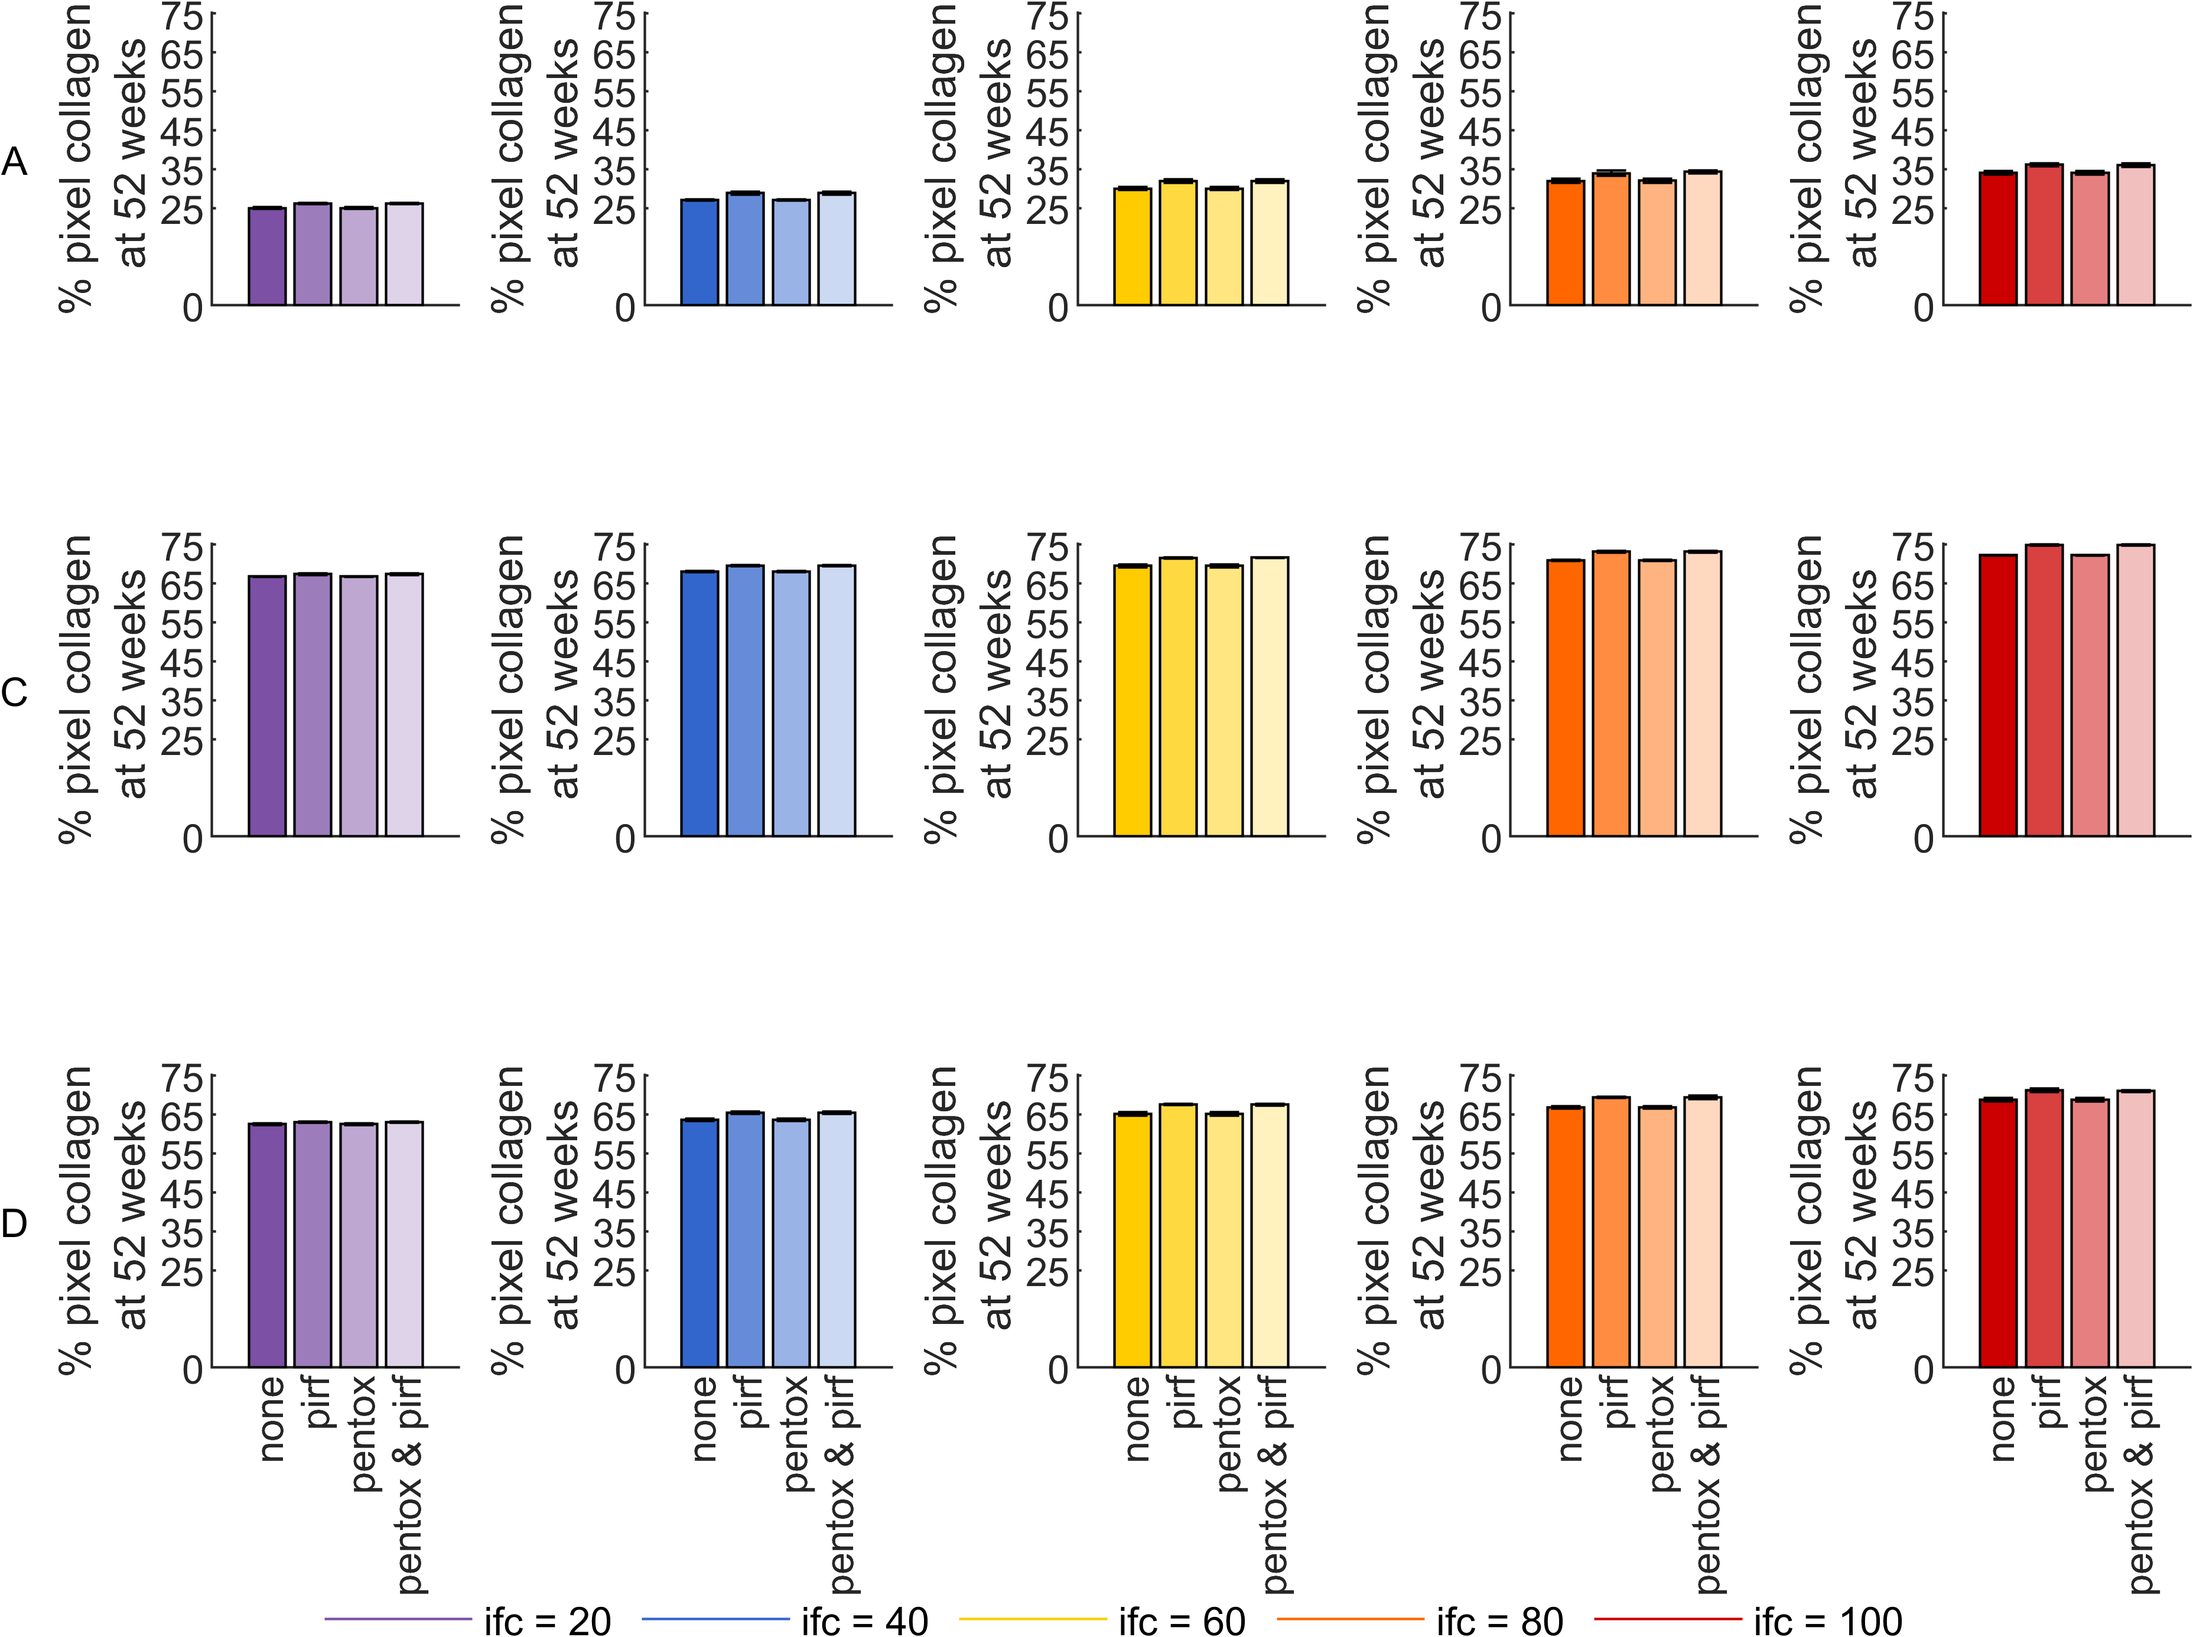
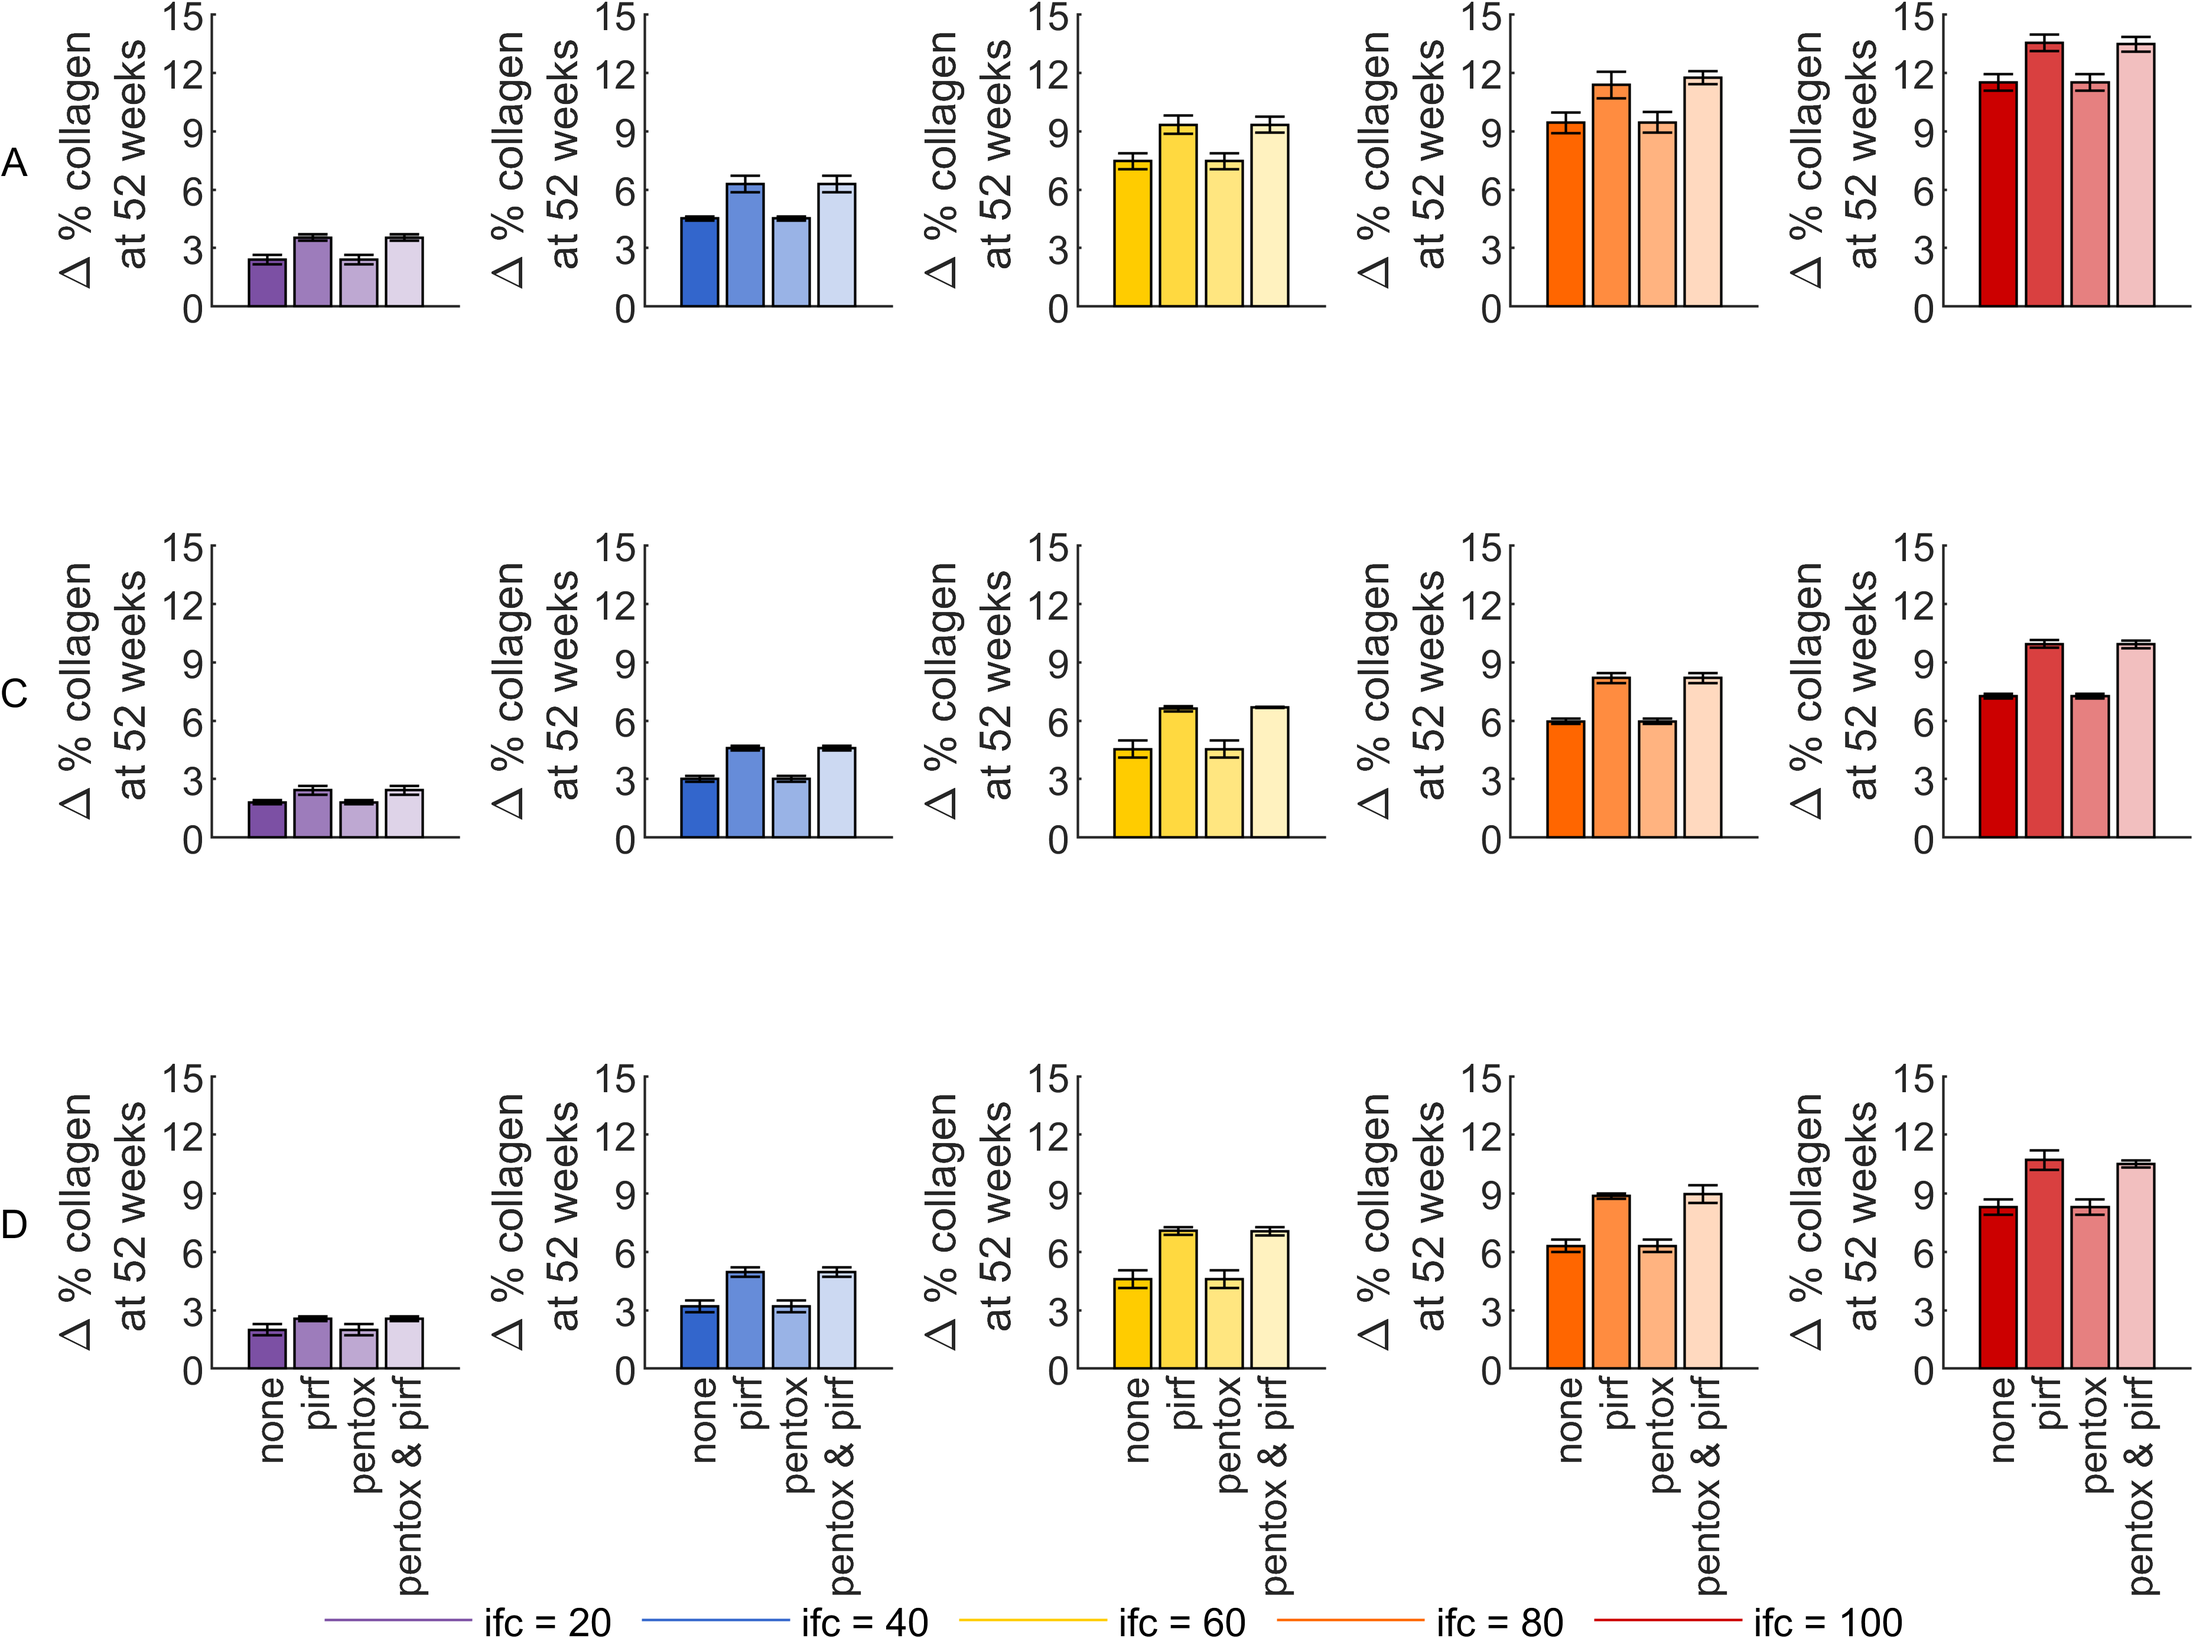
removed pixel names

diff --git a/PlotBehaviorSpace.m b/PlotBehaviorSpace.m
@@ -70,7 +70,7 @@ figColors = [
     0.8 0.0 0.0;        % red
 ];
 
-ReporterLabels = {'total world collagen', '% pixel collagen', 'fibroblasts', 'myofibroblasts', 'max pixel collagen'};
+ReporterLabels = {'total collagen', '% collagen', 'fibroblasts', 'myofibroblasts', 'max collagen'};
 for i = 2:numReporters
     figure(1)
     subplot(length(ResultsPath),numReporters-1,(z-1)*(numReporters-1) + (i-1));
@@ -168,6 +168,7 @@ for rowIndex = 2
             end
             xlim([xmin xmax])
             xlabel('Time (weeks)')
+            ReporterLabels{3-1} = '% collagen';
             ylabel(ReporterLabels{i-1})
             %title(string(RunParams{rowIndex,1})+ ' = ' + num2str(uniqueValues(k)))
             hold off
@@ -207,6 +208,8 @@ for rowIndex = 2
 
             for m = 1:numTreatments              
                 indices = (m-1)*(numReps)+[1:numReps];
+                Delta_mean_reporterValues(:,m) = mean((reporterValues(:,indices)-reporterValues(1,indices)),2);
+                Delta_std_reporterValues(:,m) = std((reporterValues(:,indices)-reporterValues(1,indices)),0,2);
                 mean_reporterValues(:,m) = mean(reporterValues(:,indices),2);
                 std_reporterValues(:,m) = std(reporterValues(:,indices),0,2);
                 storeY(k,z,i,m,:) = reporterValues(end,indices);
@@ -235,8 +238,14 @@ for rowIndex = 2
             figure(2*(numReporters-1) + i)
             subplot(length(ResultsPath),length(uniqueValues),(z-1)*length(uniqueValues) + k);
             hold on
-            y = mean_reporterValues(end,:);
-            barError = std_reporterValues(end,:);
+            if i == 3
+                y = Delta_mean_reporterValues(end,:);
+                barError = Delta_std_reporterValues(end,:);
+            else
+                y = mean_reporterValues(end,:);
+                barError = std_reporterValues(end,:);
+            end
+              
             % storeY(k,z,i,:) = y;
             b = bar(y, 'FaceColor', 'flat');
             hold on
@@ -290,23 +299,25 @@ for rowIndex = 2
             if i == 2
                 yticks([0:2:10]*1e6)
             elseif i == 3
-                yticks([0 25:10:75])
+                %yticks([0 25:10:75])
+                yticks([0:3:15])
             else
                 yticks(0:2500:12500)
             end
+            ReporterLabels{3-1} = "\Delta % collagen";
             ylabel({ReporterLabels{i-1}; " at 52 weeks"})
             %title(string(RunParams{rowIndex,1})+ ' = ' + num2str(uniqueValues(k)))
 
             errorbar(x,y,barError,'k', 'linestyle', 'none')
             hold off
 
-            % %% Deltas
+            % % %% Deltas
             % figure(3*(numReporters-1) + i)
             % temp = rowData(matchingIndices);
             % ifc = temp(1);
             % subplot(length(ResultsPath),length(uniqueValues),(z-1)*length(uniqueValues) + k);
             % hold on
-            % y = (mean_reporterValues(end,:)-mean_reporterValues(1,:))/ifc;
+            % y = (mean_reporterValues(end,:)-mean_reporterValues(1,:));%/ifc/length(time);
             % %barError = std_reporterValues(end,:);
             % 
             % b = bar(y, 'FaceColor', 'flat');
@@ -361,7 +372,8 @@ for rowIndex = 2
             % if i == 2
             %     yticks([0:2:10]*1e6)
             % elseif i == 3
-            %     yticks([0 25:10:75])
+            %     %yticks([0 25:10:75])
+            %     yticks([0:3:15])
             % else
             %     yticks([0:2500:12500])
             % end
@@ -370,7 +382,7 @@ for rowIndex = 2
             % 
             % %errorbar(x,y,barError,'k', 'linestyle', 'none')
             % hold off
-            
+            % 
            
         end
     end
@@ -664,7 +676,7 @@ for i = [2 3 numReporters]% 2:numReporters; don't further process final numbers 
     % Sort them in the order they were created (subplot order)
     allAxes = flipud(allAxes);  % MATLAB stores them in reverse order
     
-    if i == 2 | i == 3
+    if i == 2 
             % Get Y-limits from the 10th panel
             yLimitsPanel10 = ylim(allAxes(10));
 
@@ -673,7 +685,15 @@ for i = [2 3 numReporters]% 2:numReporters; don't further process final numbers 
             ylim(allAxes(k), yLimitsPanel10);
         end
     end
-    if i == 6
+    if i == 3
+        yLimitsPanel =[0 15];
+
+        % Apply same limits to all panels
+        for k = 1:length(allAxes)
+            ylim(allAxes(k), yLimitsPanel);
+        end
+    end
+    if i == 6 
         % Get Y-limits from the 3rd panel
         yLimitsPanel3 = ylim(allAxes(3));
 
